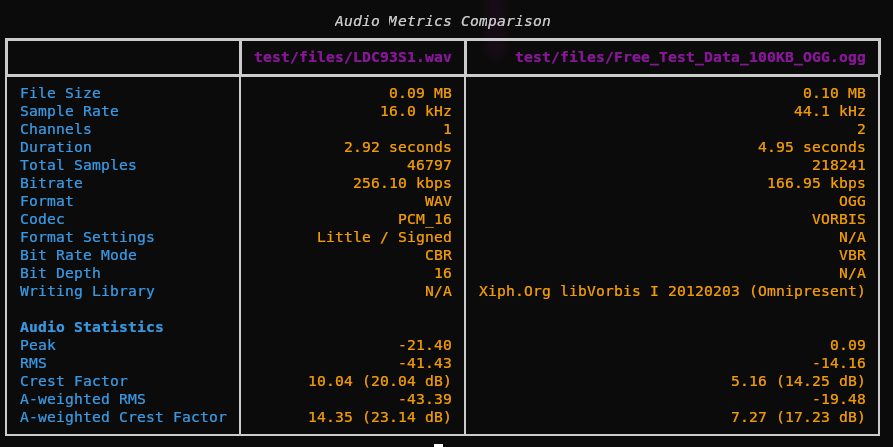
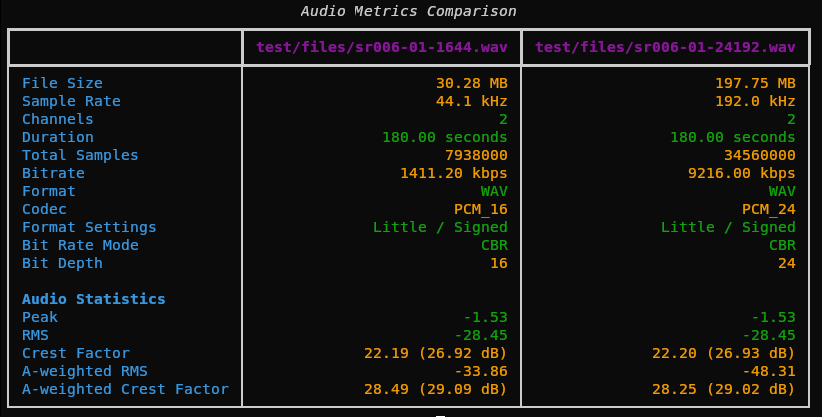
Better example

Changed region(s): [[0.0, 0.0, 1.0, 1.0]]

diff --git a/README.md b/README.md
@@ -57,7 +57,7 @@ uv run python audio_metrics.py test/files/LDC93S1.wav
 Differences between files are highlighted in yellow in the terminal.
 
 ```bash
-uv run python audio_metrics.py test/files/LDC93S1.wav test/files/Free_Test_Data_100KB_OGG.ogg
+uv run python audio_metrics.py test/files/sr006*
 ```
 
 ![Comparison example with tags](images/example2.png)
